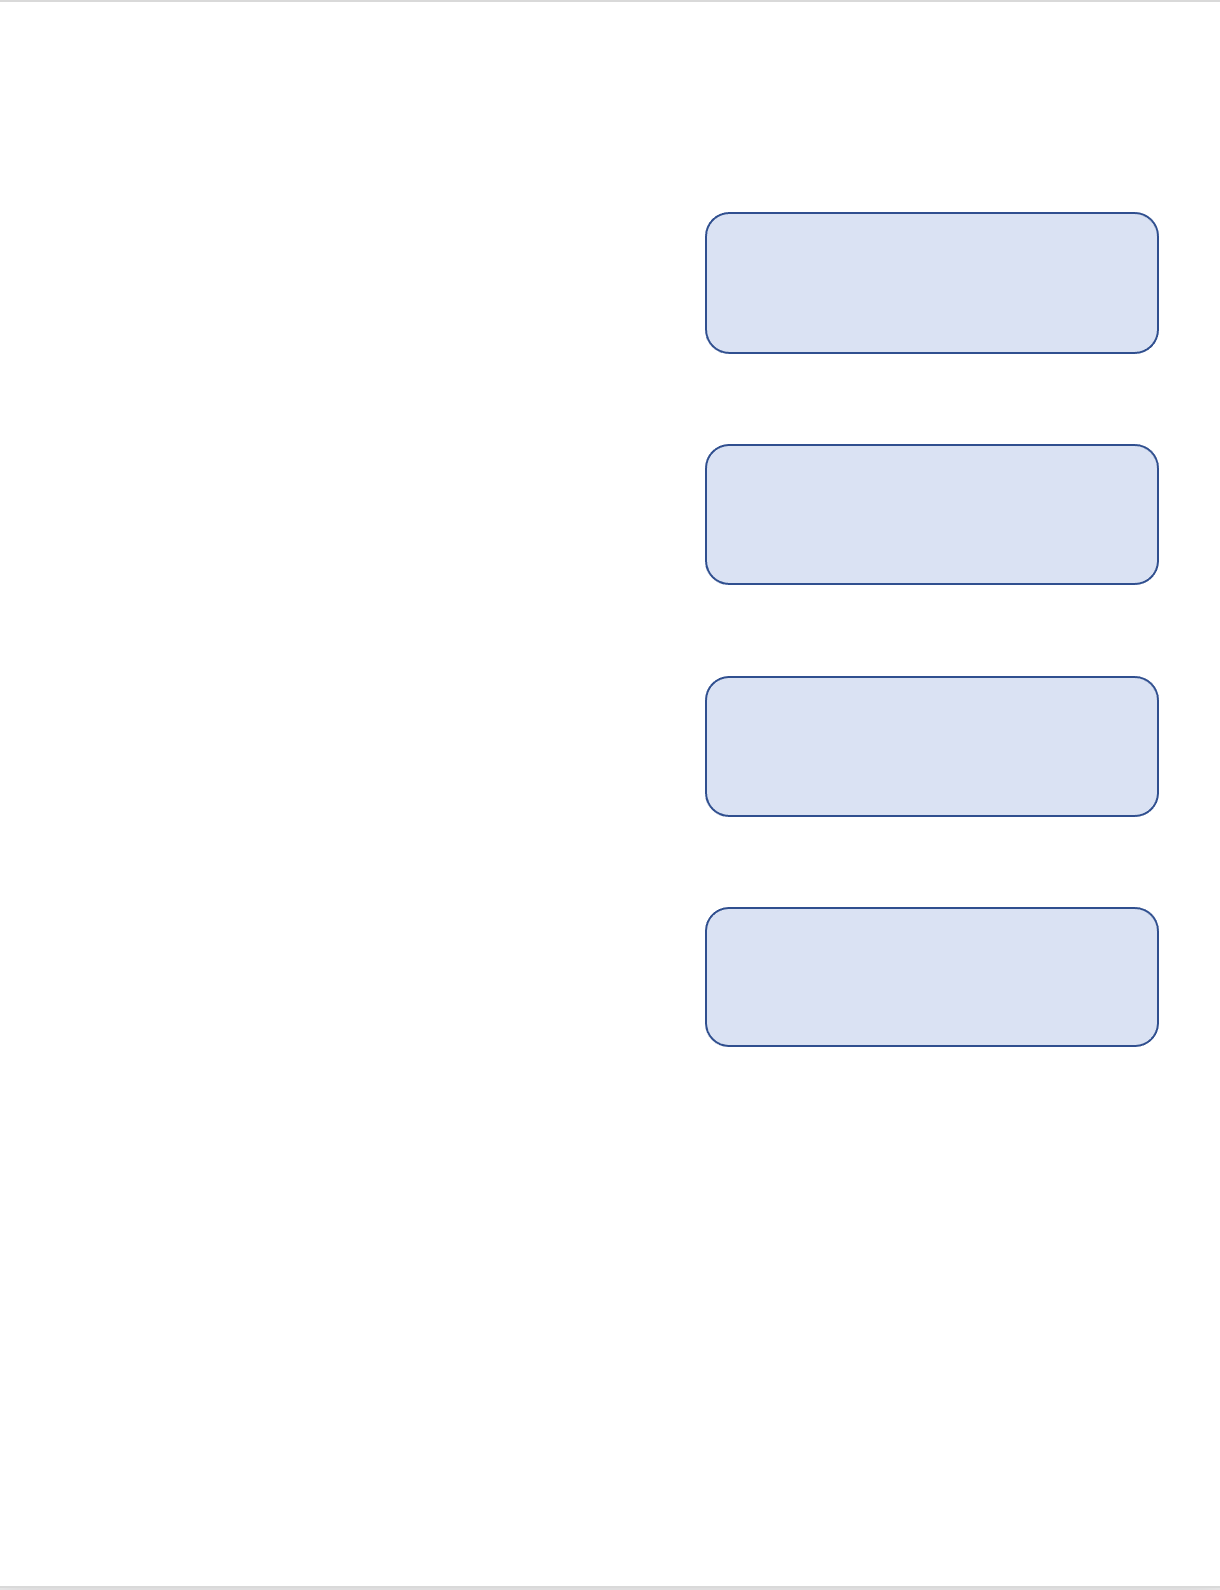
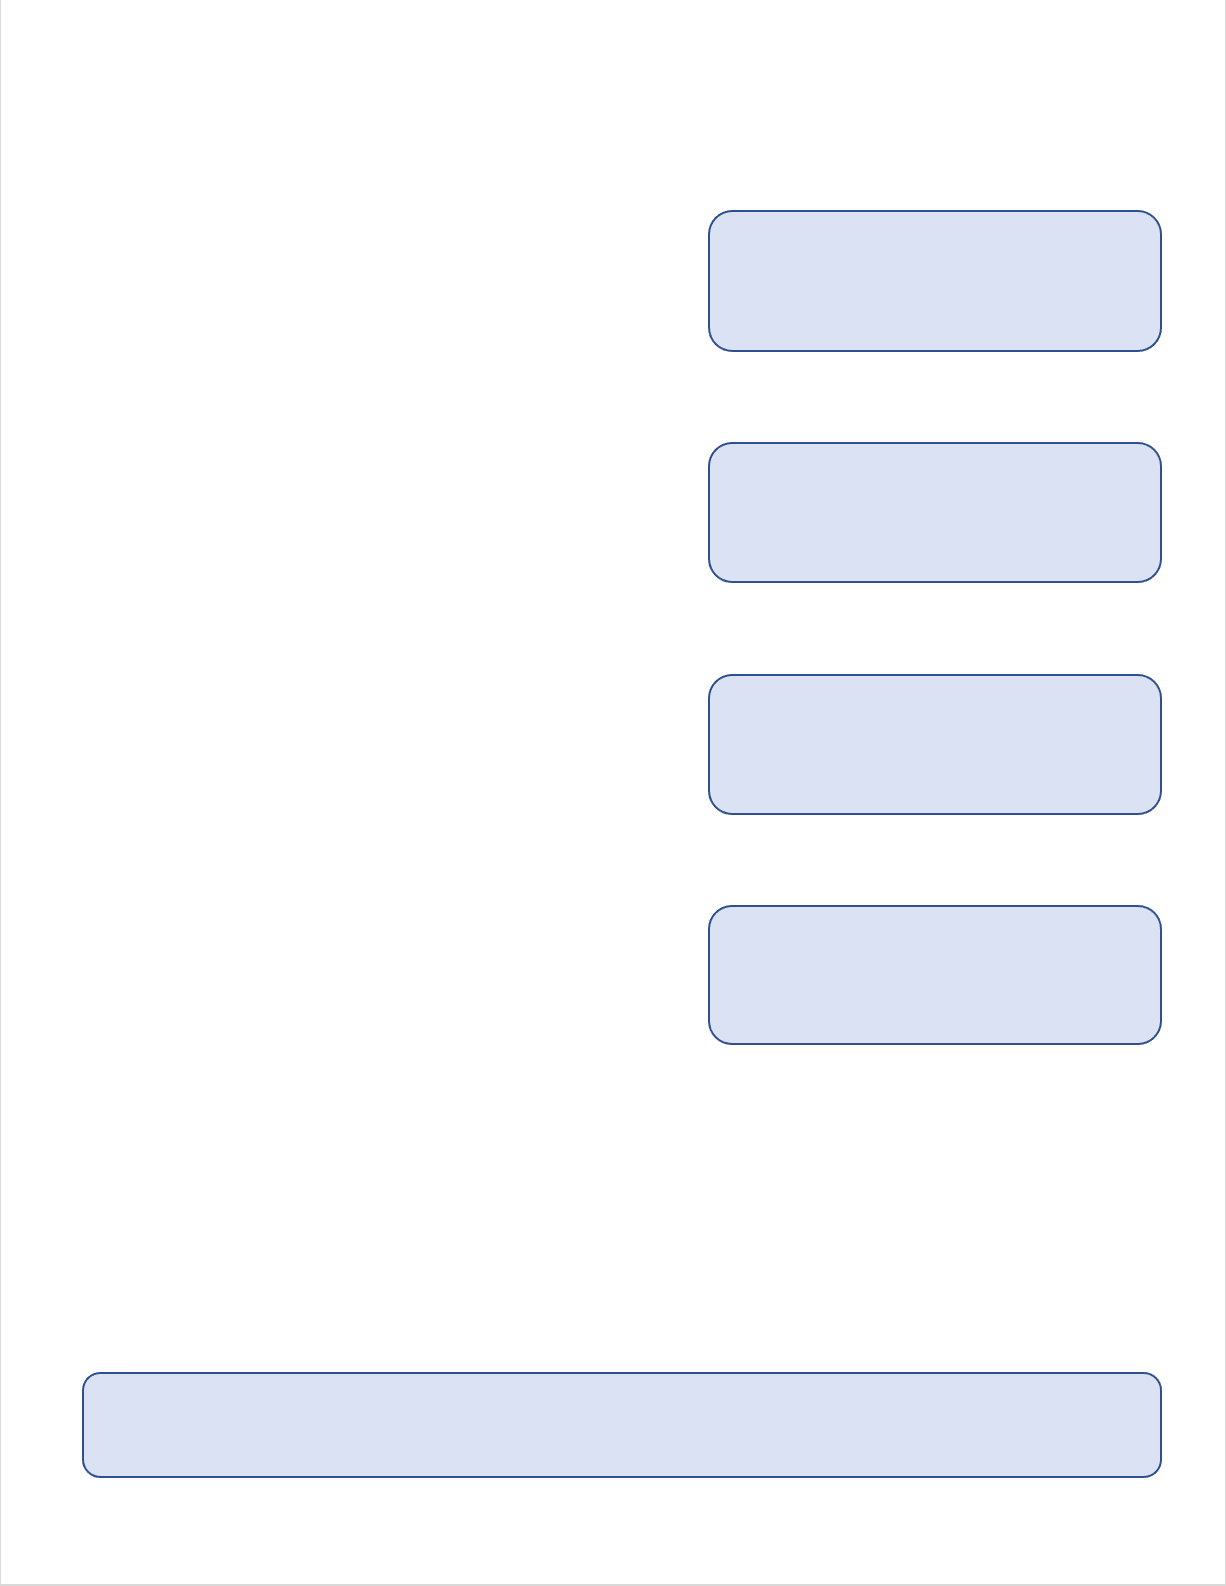
Updated summary page for rawdatalinks
added a place to put the raw data links in the pdf

diff --git a/src/pe_reports/style.css b/src/pe_reports/style.css
@@ -108,6 +108,38 @@
     height: 20cm;
     top: 3.4cm;
   }
+
+  @frame linkHeader {
+    left: 1.6cm;
+    width: 6cm;
+    height: 1.5cm;
+    top: 23.6cm;
+  }
+  @frame linkCaption1 {
+    left: 3cm;
+    width: 6cm;
+    height: 1.5cm;
+    top: 25.45cm;
+  }
+
+  @frame linkCaption2 {
+    left: 7.5cm;
+    width: 6cm;
+    height: 1.5cm;
+    top: 25.45cm;
+  }
+  @frame linkCaption3 {
+    left: 12cm;
+    width: 6cm;
+    height: 1.5cm;
+    top: 25.45cm;
+  }
+  @frame linkCaption4 {
+    left: 17cm;
+    width: 6cm;
+    height: 1.5cm;
+    top: 25.45cm;
+  }
 }
 
 @page creds {
